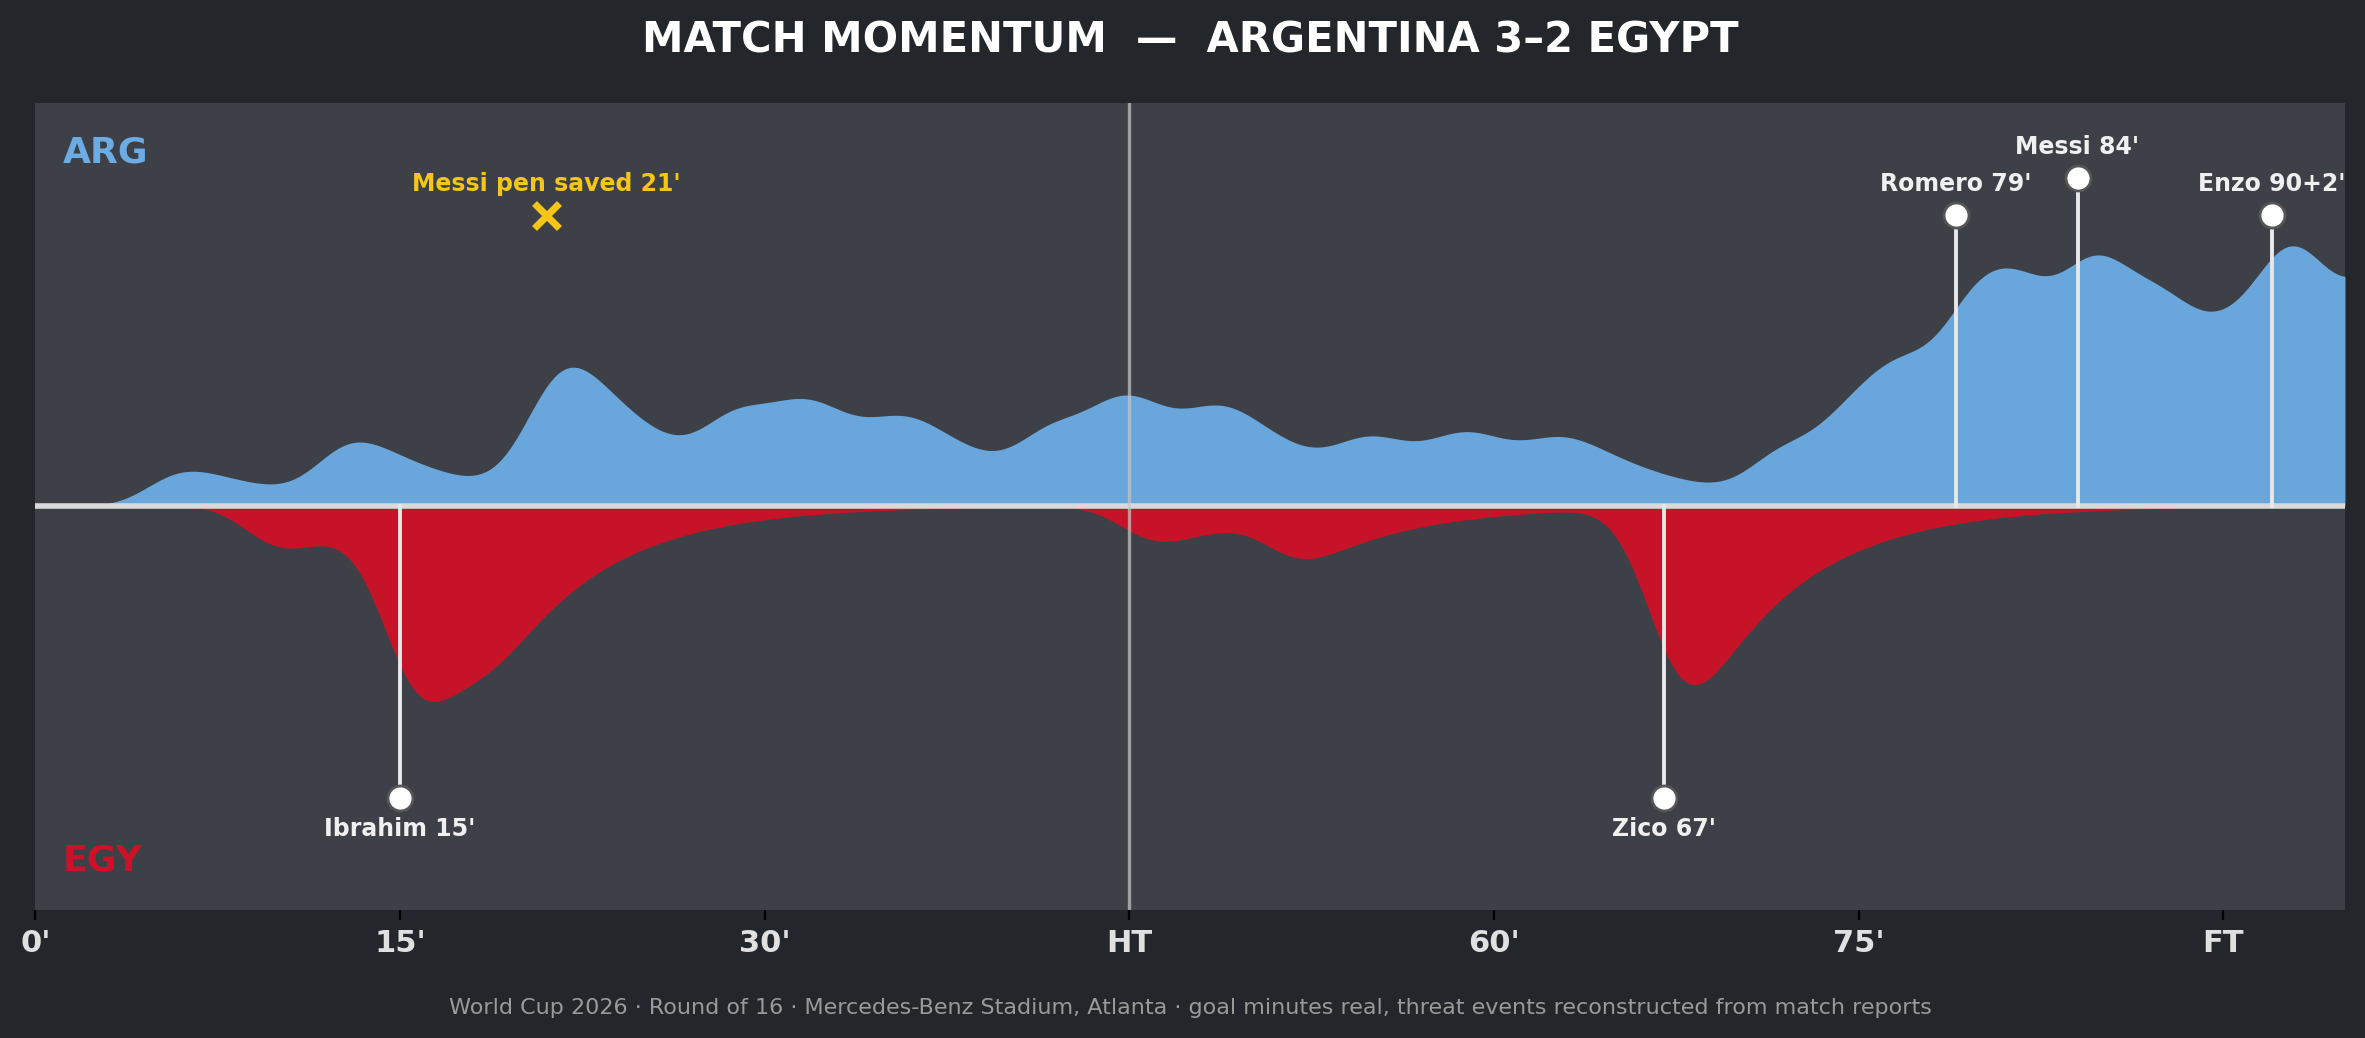
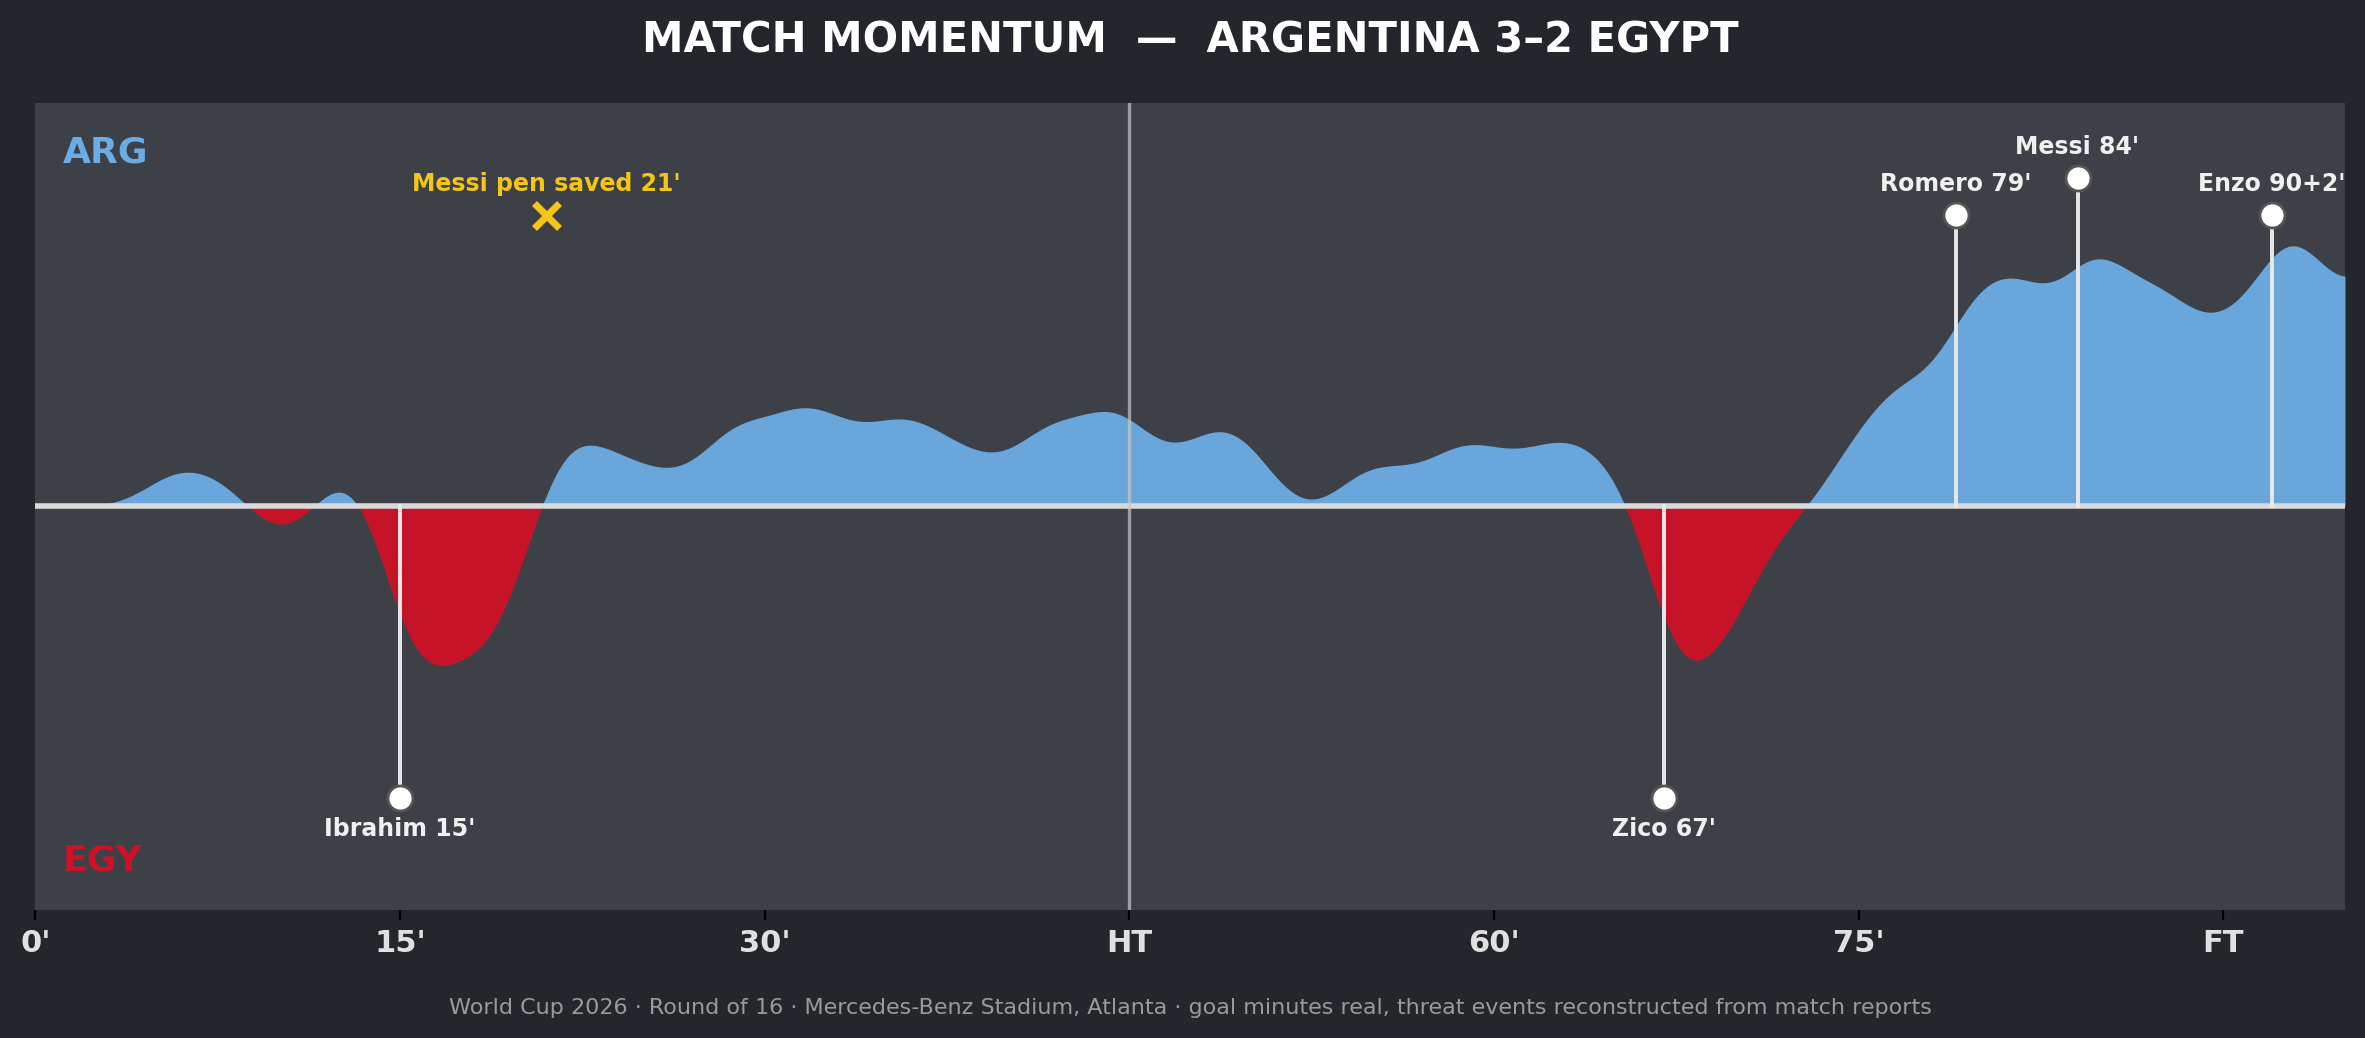
Switch to net momentum (FIFA-style: one team on top at a time)

diff --git a/momentum.py b/momentum.py
@@ -3,9 +3,10 @@ Match Momentum — a FIFA-broadcast-style momentum chart, rebuilt from scratch.
 
 Model: each threat event (shot, chance, goal, sustained pressure) injects
 "momentum energy" for its team, which decays exponentially over the following
-minutes. Per-minute energy is smoothed with a Gaussian kernel and the two
-teams are plotted as mirrored area fills around a center line — exactly the
-visual grammar of the FIFA 2026 broadcast graphic.
+minutes. The chart shows NET momentum (home energy minus away energy), so at
+any moment only one team is "on top" — when one side has momentum, the other
+doesn't. This matches the visual grammar of the FIFA 2026 broadcast graphic
+and The Athletic's momentum charts.
 
 Usage:  python momentum.py [events.json] [output.png]
 """
@@ -55,16 +56,19 @@ def main(events_path="events.json", out_path="momentum_arg_egy.png"):
 
     y_home = build_series(events, home, t)
     y_away = build_series(events, away, t)
-    peak = max(y_home.max(), y_away.max())
+    net = y_home - y_away
+    peak = np.abs(net).max()
     if peak == 0:
         raise ValueError(f"no threat events found for {home}/{away} in {events_path}")
-    y_home, y_away = y_home / peak, y_away / peak
+    net = net / peak
+    y_home = np.where(net > 0, net, 0)
+    y_away = np.where(net < 0, -net, 0)
 
     fig, ax = plt.subplots(figsize=(12, 5.2), dpi=200)
     fig.patch.set_facecolor(BG_FIG)
     ax.set_facecolor(BG_PANEL)
 
-    # mirrored fills
+    # net momentum: one side at a time, FIFA-broadcast style
     ax.fill_between(t, 0, y_home, color=home_color, alpha=0.95, lw=0)
     ax.fill_between(t, 0, -y_away, color=away_color, alpha=0.95, lw=0)
     ax.axhline(0, color="#d9d9d9", lw=2)

diff --git a/README.md b/README.md
@@ -8,11 +8,11 @@ Watching the 2026 World Cup, I kept noticing the **Match Momentum** graphic on t
 
 Argentina 3–2 Egypt, Round of 16, July 7 2026 (Mercedes-Benz Stadium, Atlanta). Egypt led 2–0 in the 75th minute; Argentina became the first team in World Cup history to win a knockout match in regulation after trailing by two that late. Romero 79', Messi 84', Enzo Fernández 90+2'.
 
-The momentum chart makes the story visible in one glance: ~70 minutes of red, then a blue wall.
+The momentum chart makes the story visible in one glance: Argentina on top for most of the match, two sharp Egyptian counter-spikes (both goals), then a blue wall at the end.
 
 ## The model
 
-Each threat event (shot, chance, goal, sustained pressure) injects "momentum energy" for its team, which **decays exponentially** (half-life ≈ 3 min). Per-minute energy is smoothed with a Gaussian kernel and the two teams are plotted as mirrored fills around a center line — the same visual grammar as the broadcast graphic.
+Each threat event (shot, chance, goal, sustained pressure) injects "momentum energy" for its team, which **decays exponentially** (half-life ≈ 3 min). The chart shows **net momentum** (home energy minus away energy), smoothed with a Gaussian kernel: at any moment only one team is on top, matching the visual grammar of FIFA's broadcast graphic and The Athletic's momentum charts. When one side has momentum, the other by definition doesn't.
 
 ```
 momentum_team(t) = Σ over events e:  w_e · exp(-λ · (t - t_e))   for t ≥ t_e